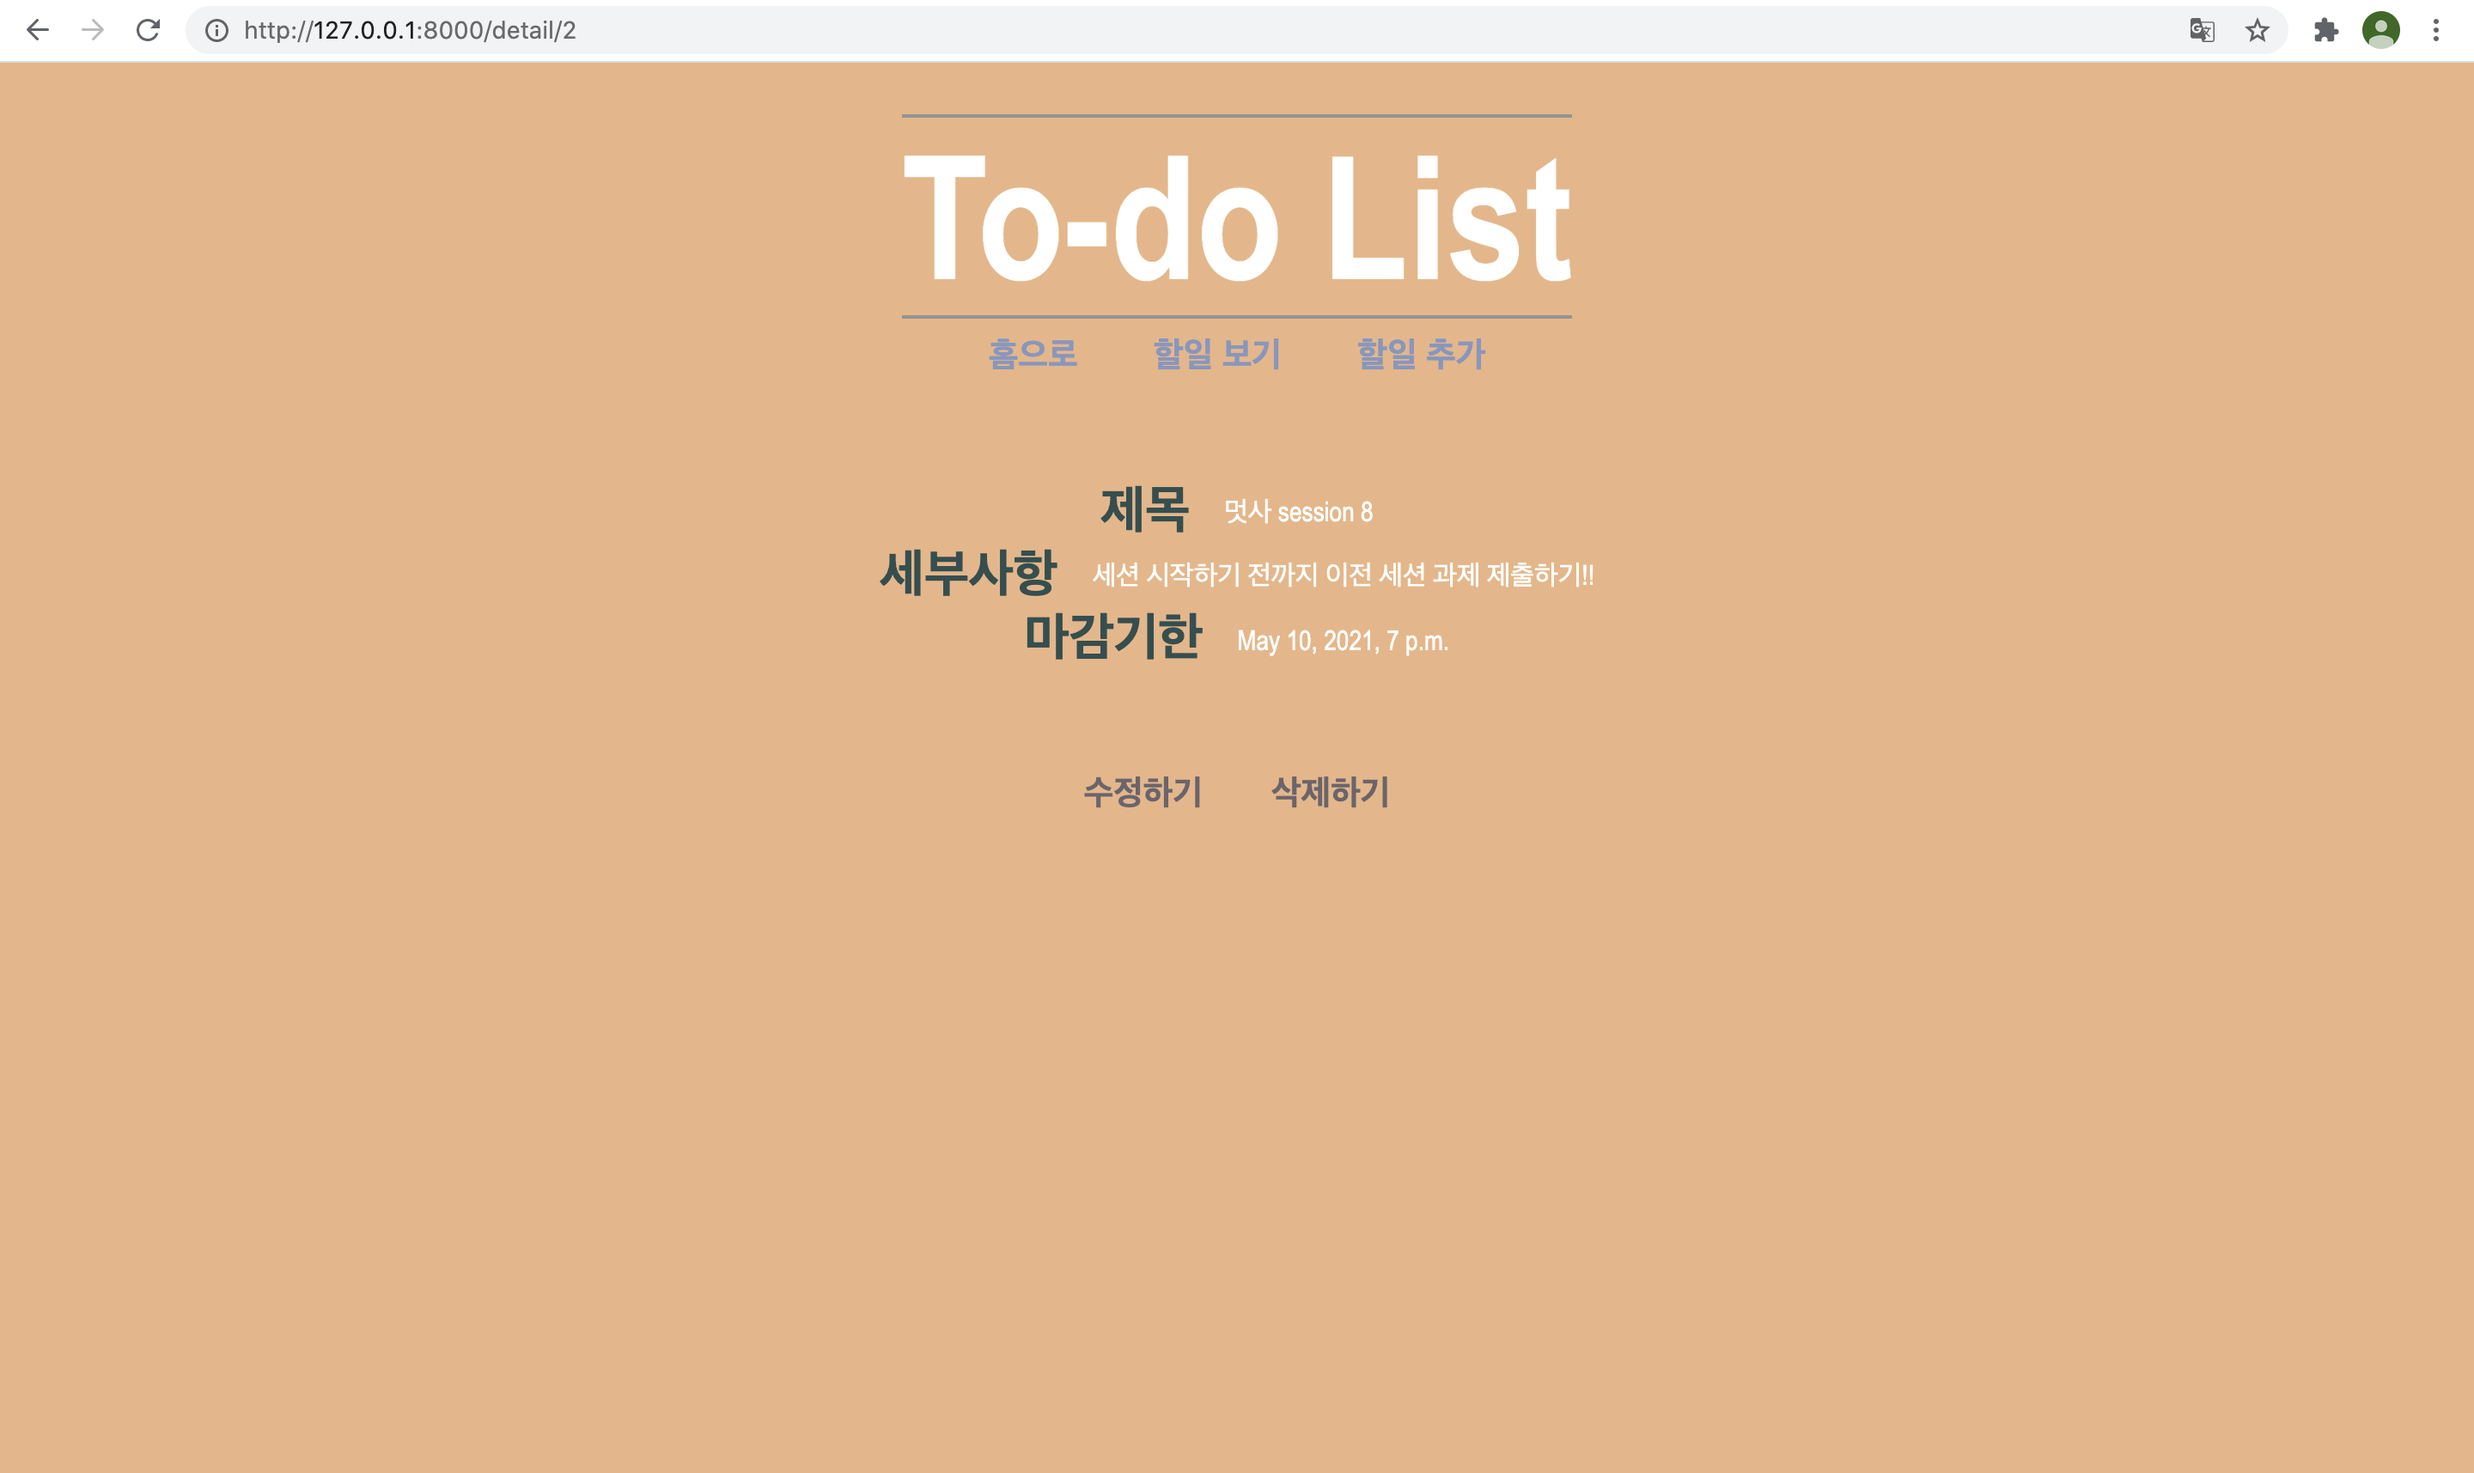
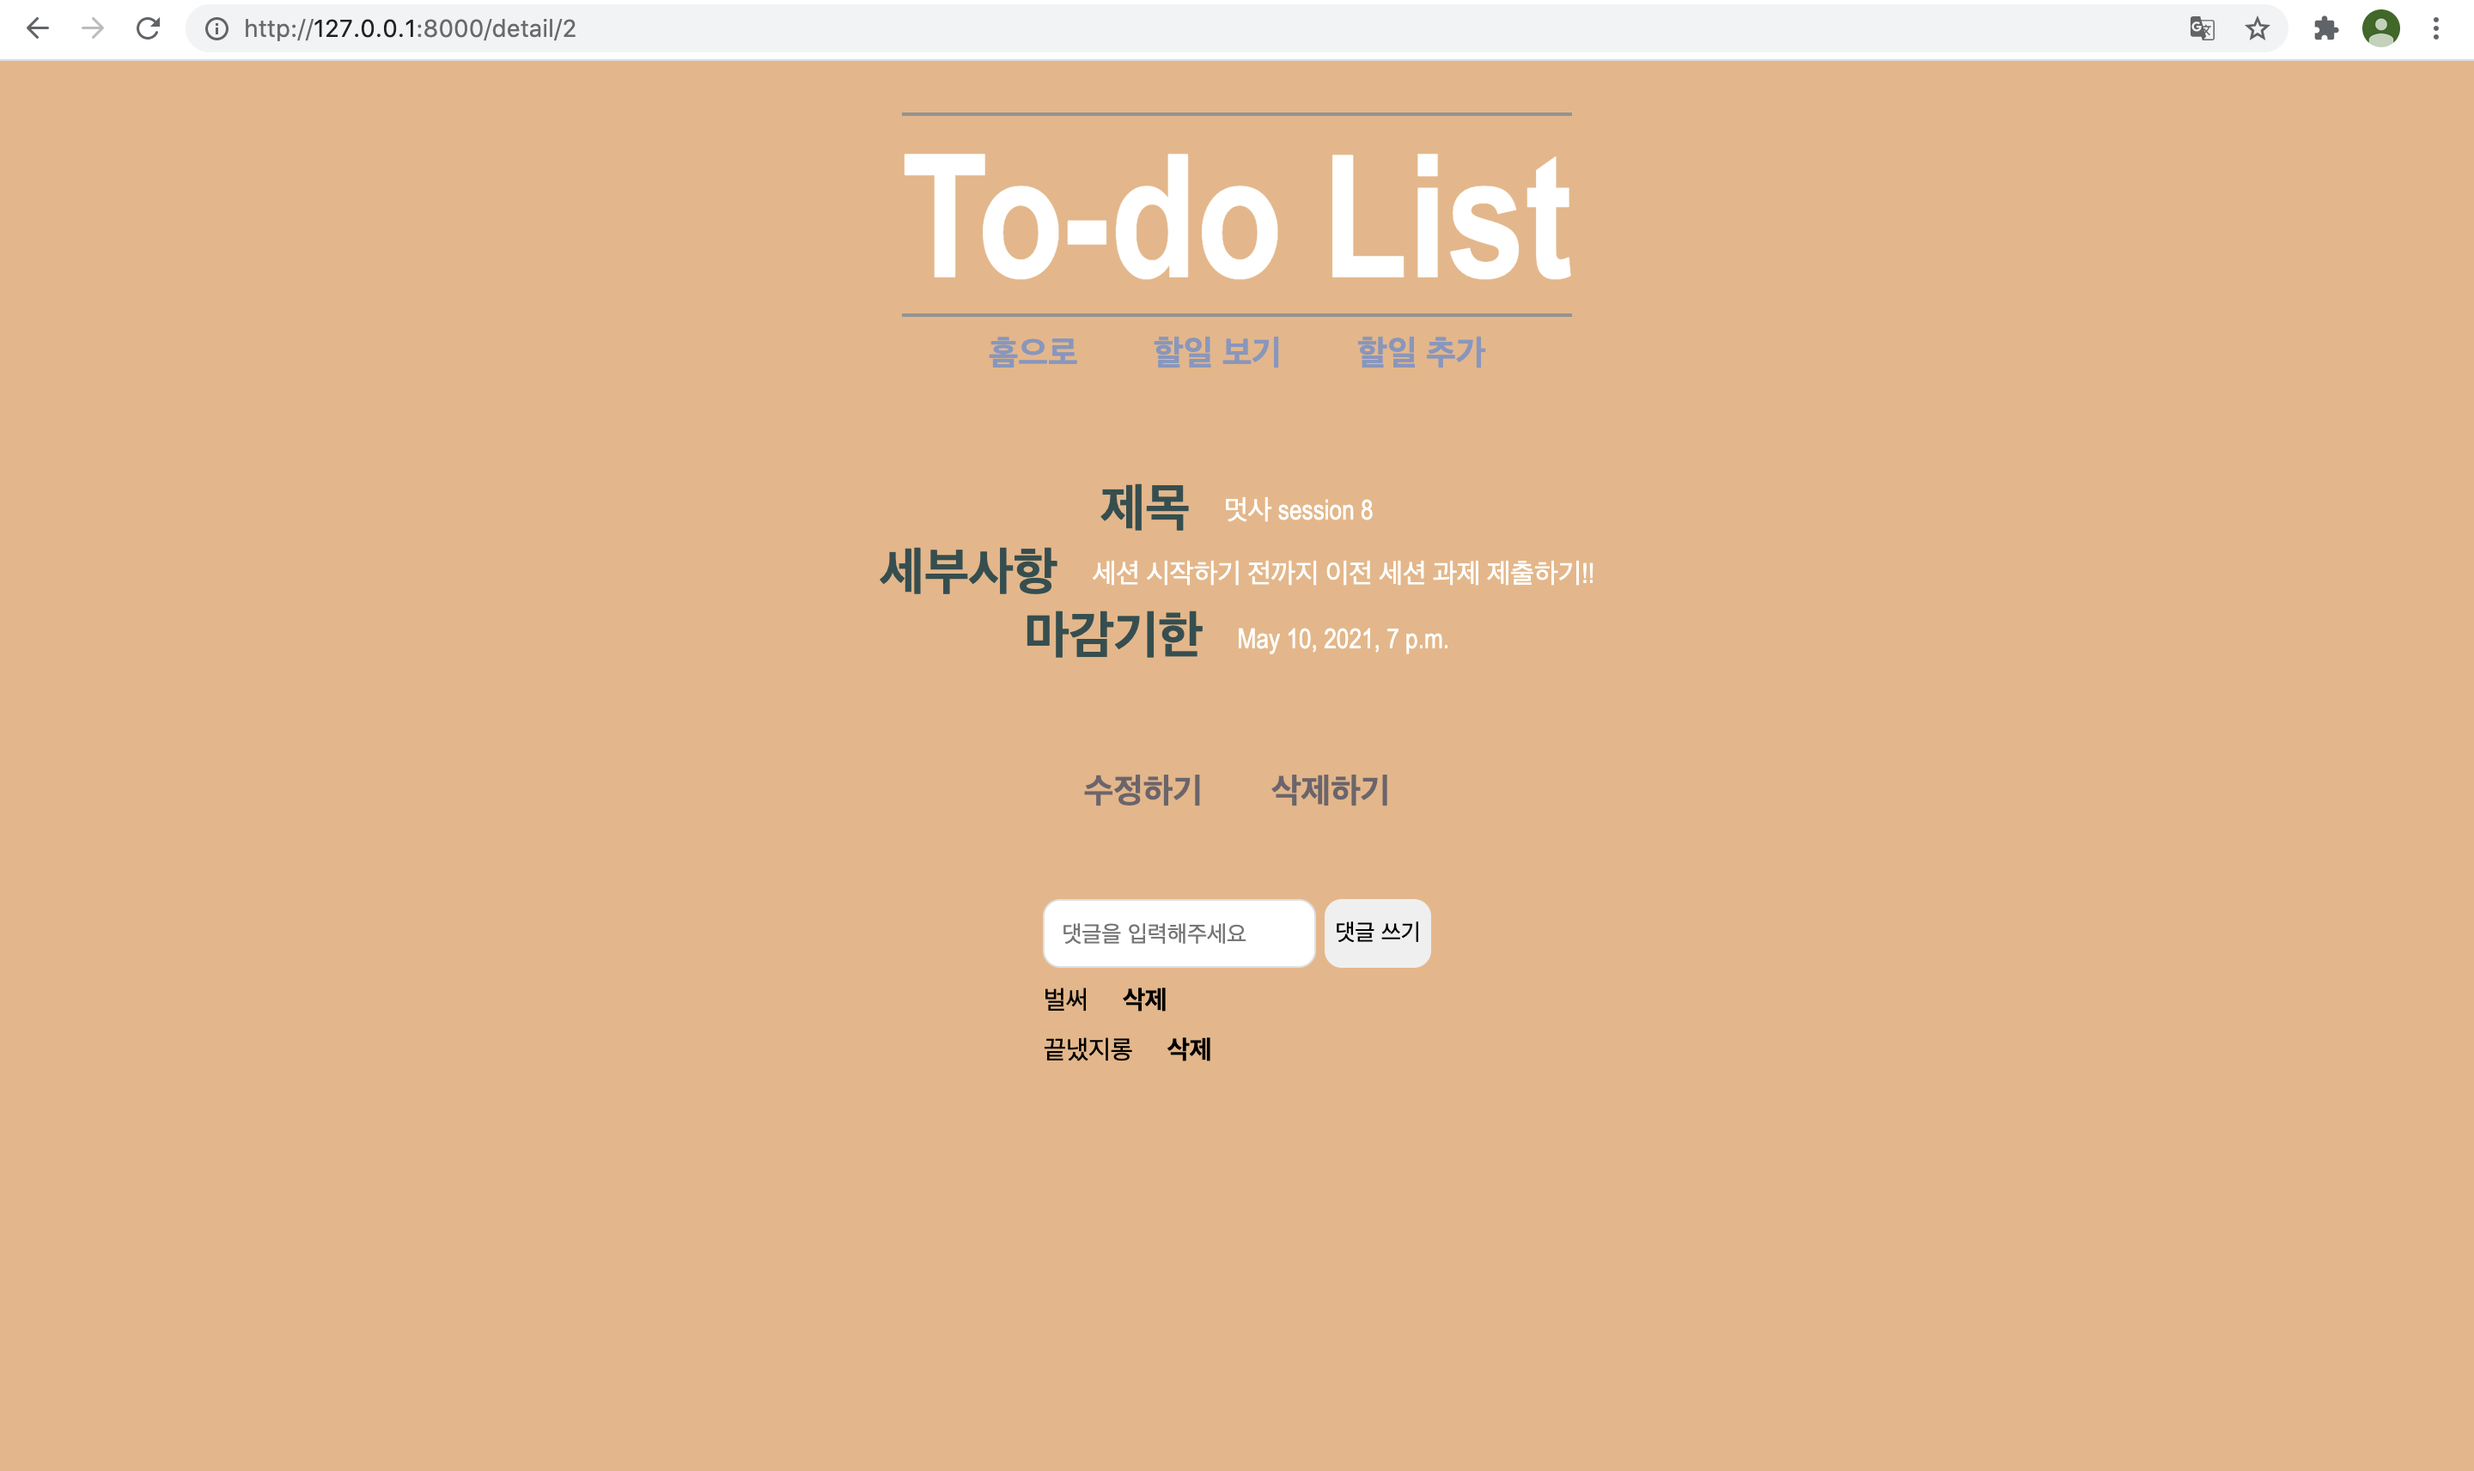
comments added

diff --git a/Session8_HW/toDoList/app/static/detail.css b/Session8_HW/toDoList/app/static/detail.css
@@ -44,4 +44,54 @@ a  {
     font-size: 20px;
     color: rgba(52, 63, 95, 0.692);
     margin: 0 20px;
-} 
+}
+
+.comment {
+    width: 100%;
+    display: flex;
+    flex-direction: column;
+    width: 500px;
+    align-items: center;
+    justify-content: center;
+}
+
+.comment form {
+    margin-top: 20px;
+    width: 100%;
+    display: flex;
+    align-items: center;
+    justify-content: center;
+}
+
+.comment form > input {
+    margin-right: 5px;
+    box-sizing: border-box;
+    border: 1px solid #dfe1e5;
+    height: 40px;
+    border-radius: 10px;
+    padding-left: 10px;
+}
+
+.comment form > button {
+    box-sizing: border-box;
+    border:none;
+    height: 40px;
+    border-radius: 10px;
+}
+
+.comments {
+    width: 45%;
+}
+
+li {
+    margin-top: 10px;
+    display: flex;
+    align-items: center;
+    justify-content: flex-start;
+    font-size: 15px;
+}
+
+li > a {
+    font-size: 15px;
+    color: black;
+}

diff --git a/Session8_HW/toDoList/app/templates/detail.html b/Session8_HW/toDoList/app/templates/detail.html
@@ -23,4 +23,19 @@
     <a href="{% url 'edit' list.pk %}">수정하기</a>
     <a href="{% url 'delete' list.pk %}">삭제하기</a>
 </div>
+
+<div class="comment">
+    <form method="POST">
+        {% csrf_token %}
+        <input type="text" name="content" placeholder="댓글을 입력해주세요">
+        <button type="submit">댓글 쓰기</button>
+    </form>
+    <div class="comments">
+        {% for comment in list.comments.all %}
+        <li>{{ comment.content }}
+            <a href="{% url 'delete_comment' list.pk comment.pk %}">삭제</a>
+        </li>
+        {% endfor %}
+    </div>
+</div>
 {% endblock %}

diff --git a/Session8_HW/toDoList/app/views.py b/Session8_HW/toDoList/app/views.py
@@ -1,5 +1,5 @@
 from django.shortcuts import render, redirect
-from .models import List
+from .models import Comment, List
 
 # Create your views here.
 def home(request):
@@ -26,6 +26,14 @@ def new(request):
 def detail(request, list_pk):
     list = List.objects.get(pk=list_pk)
 
+    if request.method=='POST':
+        content = request.POST['content']
+        Comment.objects.create(
+            list = list,
+            content=content
+        )
+        return redirect('detail', list_pk)
+
     return render(request, 'detail.html', {'list': list})
 
 def edit(request, list_pk):
@@ -46,3 +54,8 @@ def delete(request, list_pk):
     list.delete()
 
     return redirect('home')
+
+def delete_comment(request, list_pk, comment_pk):
+    comment = Comment.objects.get(pk=comment_pk)
+    comment.delete()
+    return redirect('detail', list_pk)

diff --git a/Session8_HW/toDoList/app/migrations/0003_comment.py b/Session8_HW/toDoList/app/migrations/0003_comment.py
@@ -1,0 +1,22 @@
+# Generated by Django 3.2.2 on 2021-05-13 09:19
+
+from django.db import migrations, models
+import django.db.models.deletion
+
+
+class Migration(migrations.Migration):
+
+    dependencies = [
+        ('app', '0002_list_deadline'),
+    ]
+
+    operations = [
+        migrations.CreateModel(
+            name='Comment',
+            fields=[
+                ('id', models.BigAutoField(auto_created=True, primary_key=True, serialize=False, verbose_name='ID')),
+                ('content', models.TextField()),
+                ('list', models.ForeignKey(on_delete=django.db.models.deletion.CASCADE, related_name='comments', to='app.list')),
+            ],
+        ),
+    ]

diff --git a/Session8_HW/toDoList/toDoList/urls.py b/Session8_HW/toDoList/toDoList/urls.py
@@ -24,5 +24,6 @@ urlpatterns = [
     path('new/', views.new, name="new"),
     path('detail/<int:list_pk>', views.detail, name="detail"),
     path('edit/<int:list_pk>', views.edit, name="edit"),
-    path('delete/<int:list_pk>', views.delete, name="delete")
+    path('delete/<int:list_pk>', views.delete, name="delete"),
+    path('delete_comment/<int:list_pk>/<int:comment_pk>', views.delete_comment, name='delete_comment'),
 ]

diff --git a/Session8_HW/toDoList/app/models.py b/Session8_HW/toDoList/app/models.py
@@ -9,3 +9,7 @@ class List(models.Model):
 
     def __str__(self):
         return self.title
+    
+class Comment(models.Model):
+    list = models.ForeignKey(List, on_delete=models.CASCADE, related_name='comments')
+    content = models.TextField()

diff --git a/Session8_HW/toDoList/app/admin.py b/Session8_HW/toDoList/app/admin.py
@@ -1,5 +1,6 @@
 from django.contrib import admin
-from .models import List
+from .models import Comment, List
 
 # Register your models here.
 admin.site.register(List)
+admin.site.register(Comment)
